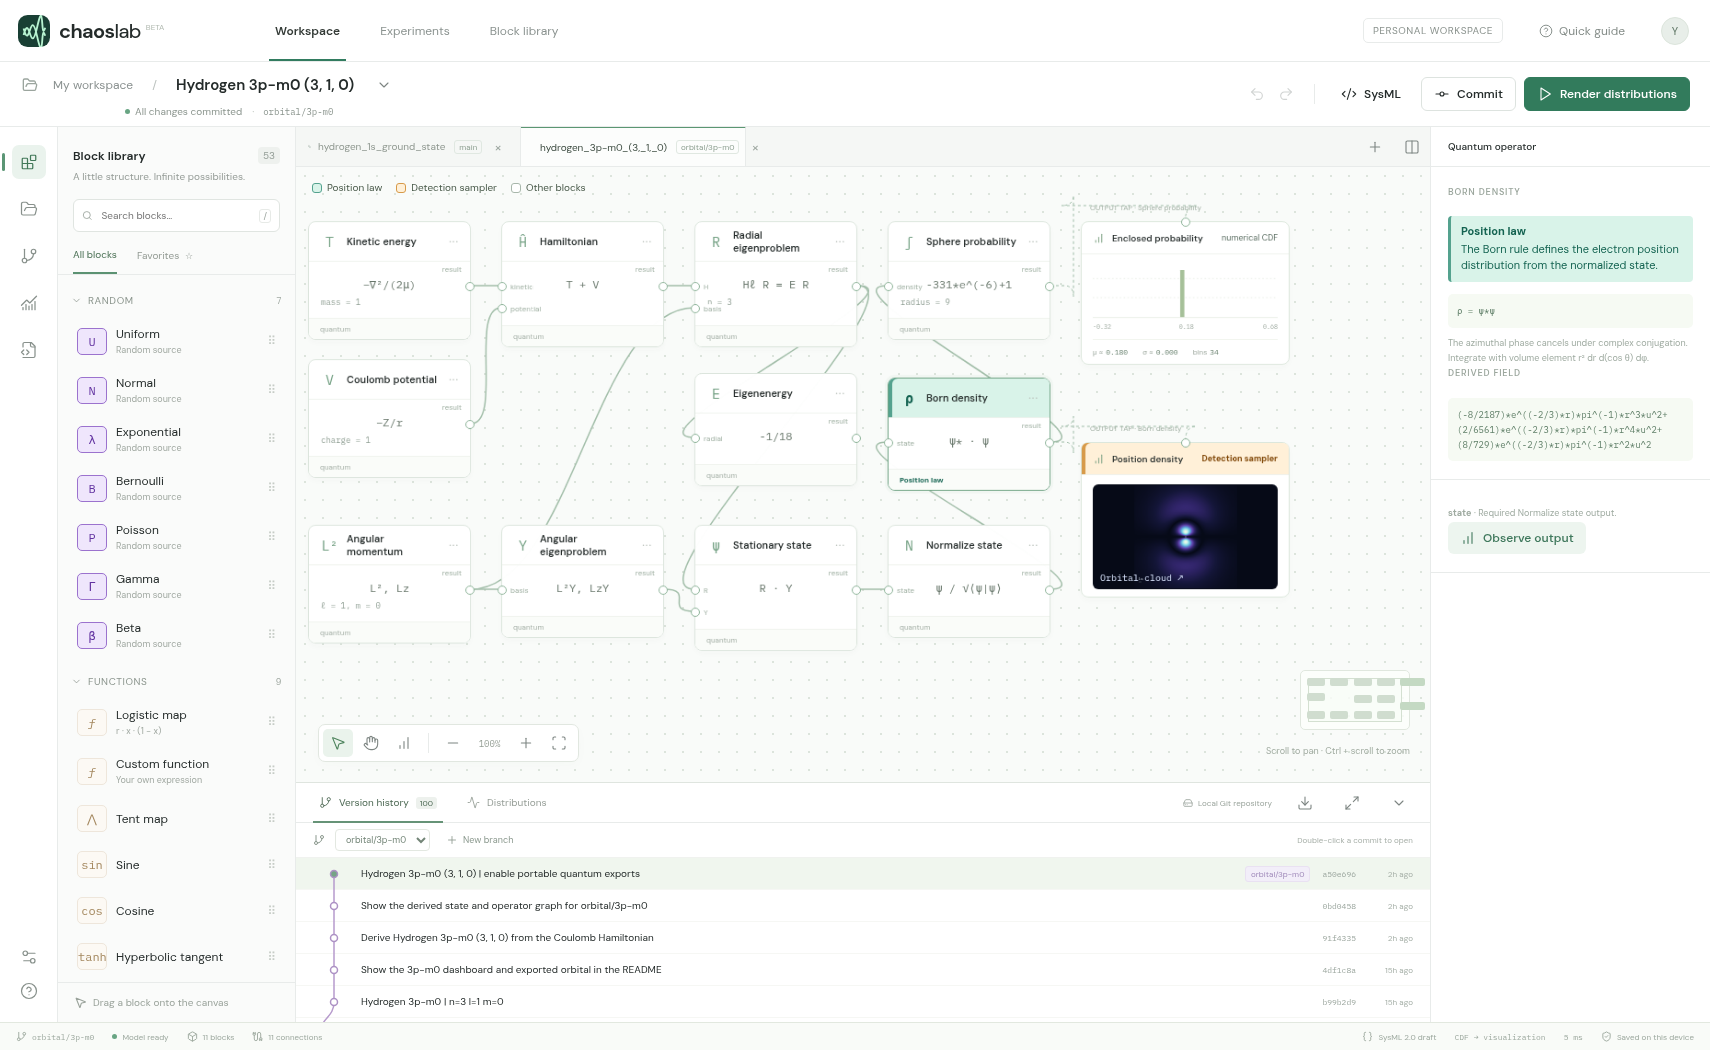
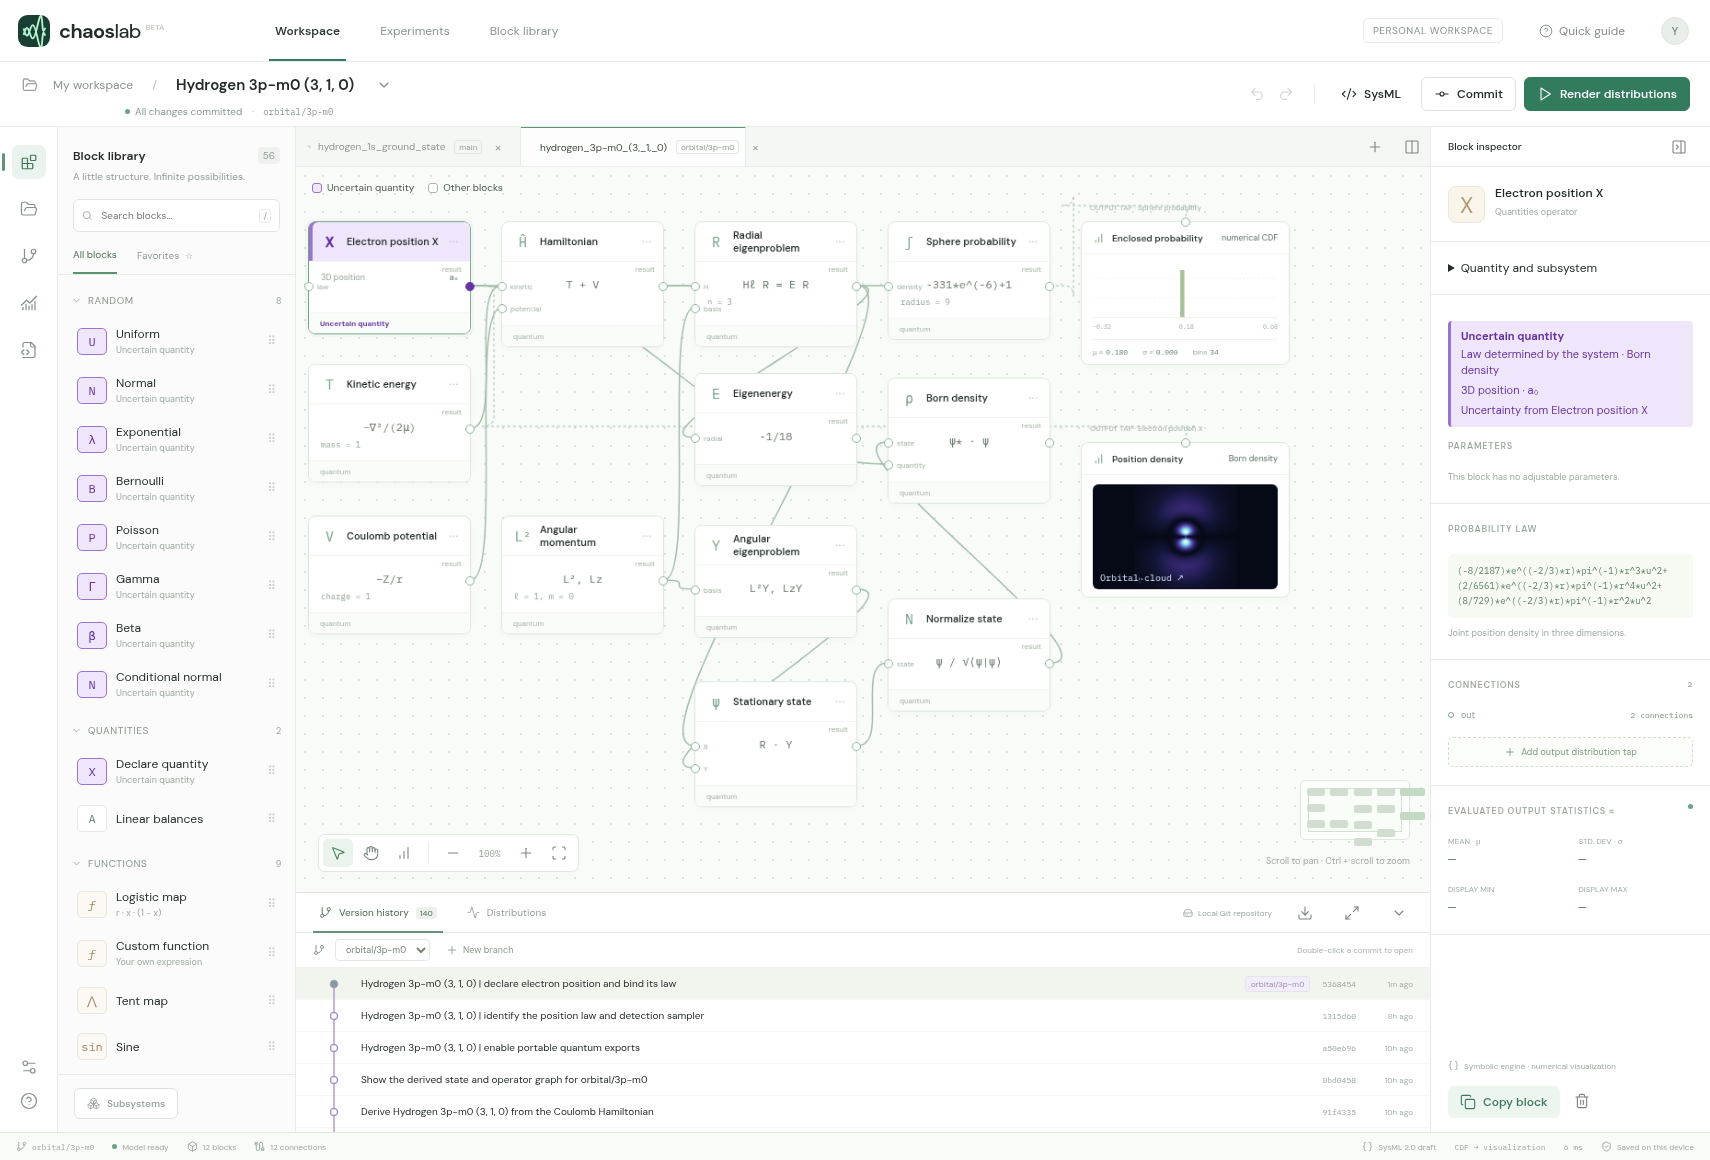
Show the position declaration and its law provider for orbital/3p-m0

diff --git a/studio.py b/studio.py
@@ -10,7 +10,7 @@ import tempfile
 import webbrowser
 
 ROOT = Path(__file__).resolve().parent
-STUDIO_REV = "5cbb600c6ee5baa24d159ddc6c974d68eb68f653"
+STUDIO_REV = "515ba96842af71b90f41019a508548a96e802665"
 STUDIO_REPO = "https://github.com/wa200508/chaos_lab.git"
 
 

diff --git a/README.md b/README.md
@@ -6,7 +6,7 @@ Open **Version history** in Chaos Lab to explore the 20 hydrogen designs in this
 
 The connected Hamiltonian and eigenstate solvers give $E=-1/18$ Hartree for this state.
 
-The purple **Electron position X** block declares the three-dimensional quantity in Bohr radii. Open its inspector to see **Born density** as its law provider. The sphere measurement and spatial tap both observe X. Projected detections draw from the final law; the central slice evaluates the density directly.
+The purple **Electron position X** block declares the three-dimensional quantity in Bohr radii. Open its inspector to see **Born density** as its law provider. The sphere measurement and spatial tap both observe X. Projected detections draw from the final law. The central slice evaluates the density directly.
 
 ![Chaos Lab dashboard with the 3p model, m = 0, open in version history](dashboard.png)
 
